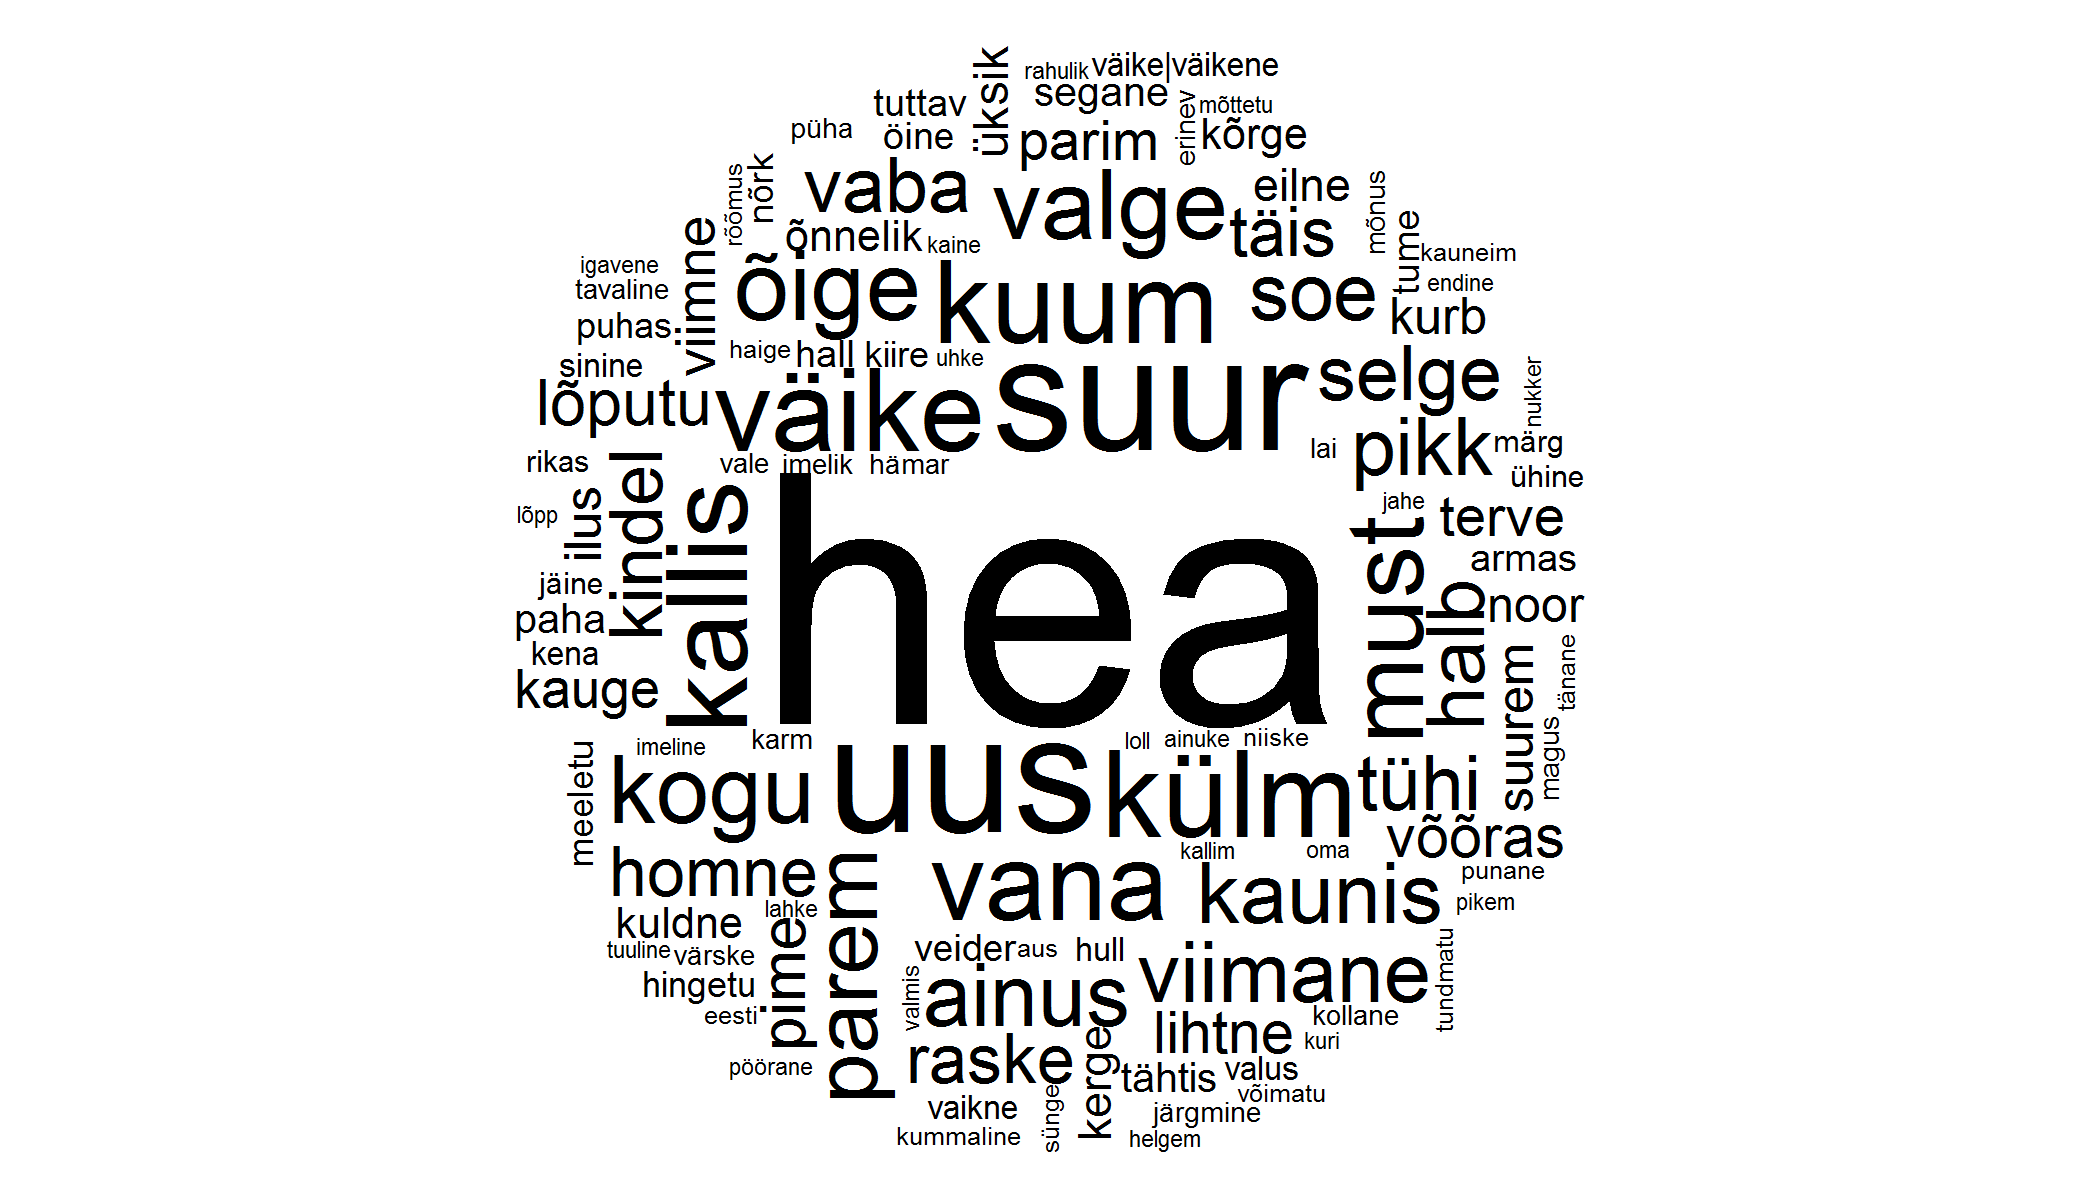
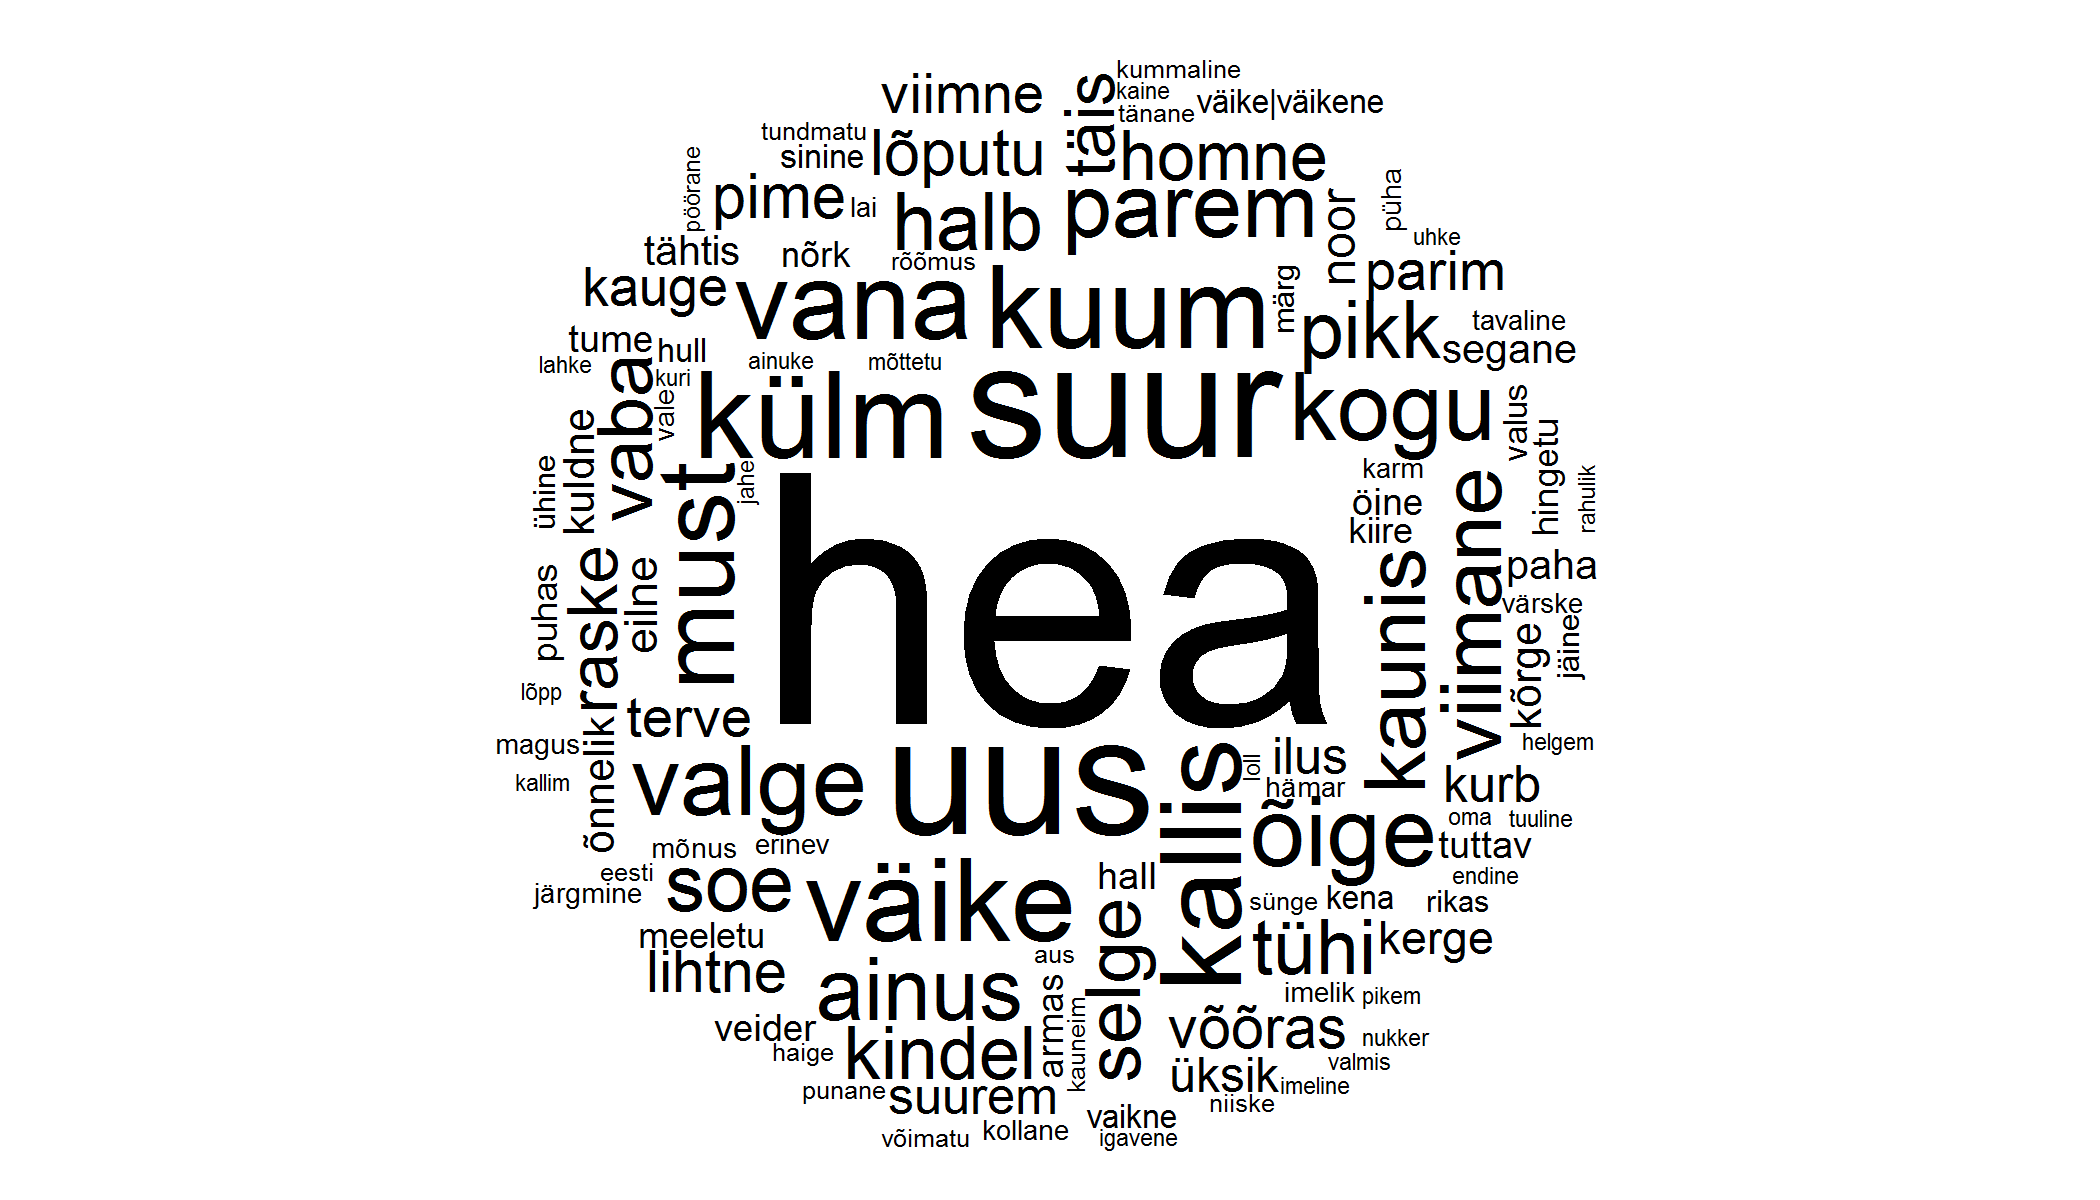
täiendatud versioon

Changed region(s): [[0.2476, 0.0308, 0.7738, 0.9558]]

diff --git a/_posts/2016-07-14-eesti-muusika.md b/_posts/2016-07-14-eesti-muusika.md
@@ -19,20 +19,25 @@ Selleks, et võtta kokku, millest populaarsemad laulud räägivad, koostasin ees
 
 <img src="{{ site.url }}/img/eesti-muusika-sonapilv_nimisonad-1.png" style="display: block; margin: auto;" />
 <img src="{{ site.url }}/img/eesti-muusika-sonapilv_omadussonad-1.png" style="display: block; margin: auto;" />
-Järgmisel graafikul on võrreldud 20 populaarsemat nimi- omadus- ja tegusõnu kahel perioodi 1994-2005 ja 2006-2015. 
+
+Järgmisel graafikul on võrreldud 20 populaarsemat nimi- omadus- ja tegusõnu kahel perioodi 1994-2005 ja 2006-2015.
+
 <img src="{{ site.url }}/img/eesti-muusika-slopegraph-1.png" style="display: block; margin: auto;" />
 
 ## Erinevad sõnad lauludes
 Keskmiselt on ühes laulus 82 unikaalset sõna. Kõige suurema sõnavaraga paistavad silma hip-hop ja räpi lood. Esimesel kohal on __373_ erineva sõnaga Ä-Rühma Popmuusik. 
 
 <img src="{{ site.url }}/img/eesti-muusika-sonade_arv_laulus-1.png" style="display: block; margin: auto;" />
-## Artistid 
 
+## Artistid 
+Läbi R2 aastahiti ajaloo on selgelt kaks kõige populaarsemat artisti __Terminaator ja Smilers__, kellel on vastavalt 43 ja 41 lugu edetabelis. Allolev heatmap annab ülevaate 25 populaarsema artisti karjääri kohta. Ka siin eristuvad kaks populaarsemat artisti, kelle lood on peaaegu katkematult aastahiti edetabelisse jõudnud. Alles viimastel aastatel on Terminaatori populaarsus vähenema hakanud. Teised artistid figureerivad edetaelis kõik oluliselt lühemal perioodil. 
 
 <img src="{{ site.url }}/img/eesti-muusika-top_artistid-1.png" style="display: block; margin: auto;" />
 
+Lisaks lugude arvule edetabelis vaatasin ka artistide poolt saadud häälte arvu kokku läbi ajaloo. Kuigi rohkem lugusid tähendab ka rohkem hääli, siis mõnevõrra on pilt eelmisest heatmapist erinev. Ääremärkusena lisan, et kõige populaarsem lugu on __Tanel Padar & The Sun - Võta Aega__.
+
 <img src="{{ site.url }}/img/eesti-muusika-artistide_haalte_arv-1.png" style="display: block; margin: auto;" />
 
-
 ## Kuidas?
-Andmed on kogutud PPA Facebooki seinalt (API abil). Andmetöötlus ja graafikud on tehtud R-s ning detailsemat skripti näeb Githubis: [https://github.com/toomase/politsei_koned](https://github.com/toomase/politsei_koned).
+Idee selleks analüüsiks andis blogipostitus [50 Years of Pop Music](http://kaylinwalker.com/50-years-of-pop-music/). Andmed aastahiti tulemuste kohta on kogutud R2 veebilehelt [http://r2.err.ee/aastahitt/ajalugureg.php](http://r2.err.ee/aastahitt/ajalugureg.php) ning laulusõnad pärinevad andmebaasist [http://sasslantis.ee/](http://sasslantis.ee/). Lisaks oma tavapärasele töövahendile R, kasutasin seekord esmakordselt eesti keele tekstitöötluseks ka Pythonit ja [Estnltk library't](http://estnltk.github.io/estnltk/1.4/index.html). 
+Analüüsi skript asub Githubis: [https://github.com/toomase/eesti_muusika](https://github.com/toomase/eesti_muusika).
